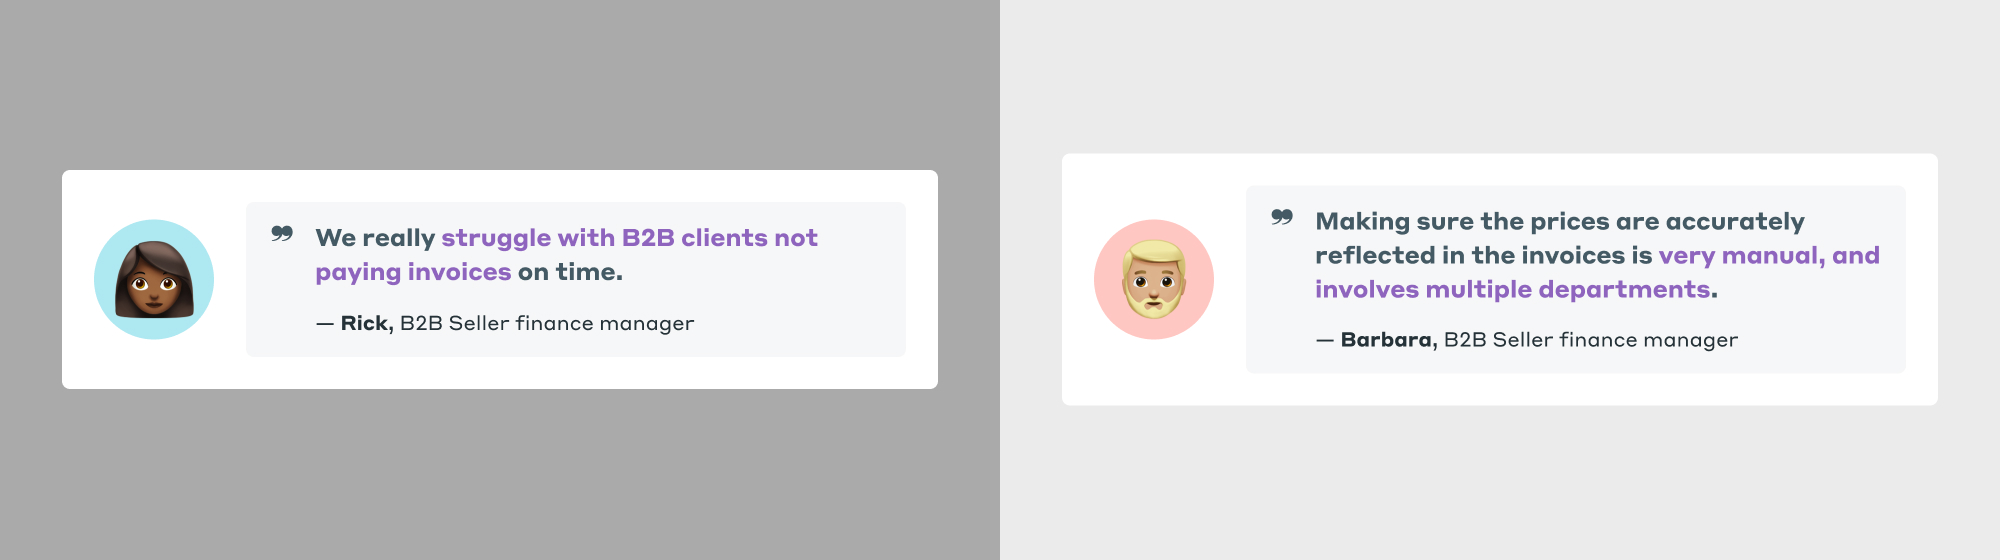
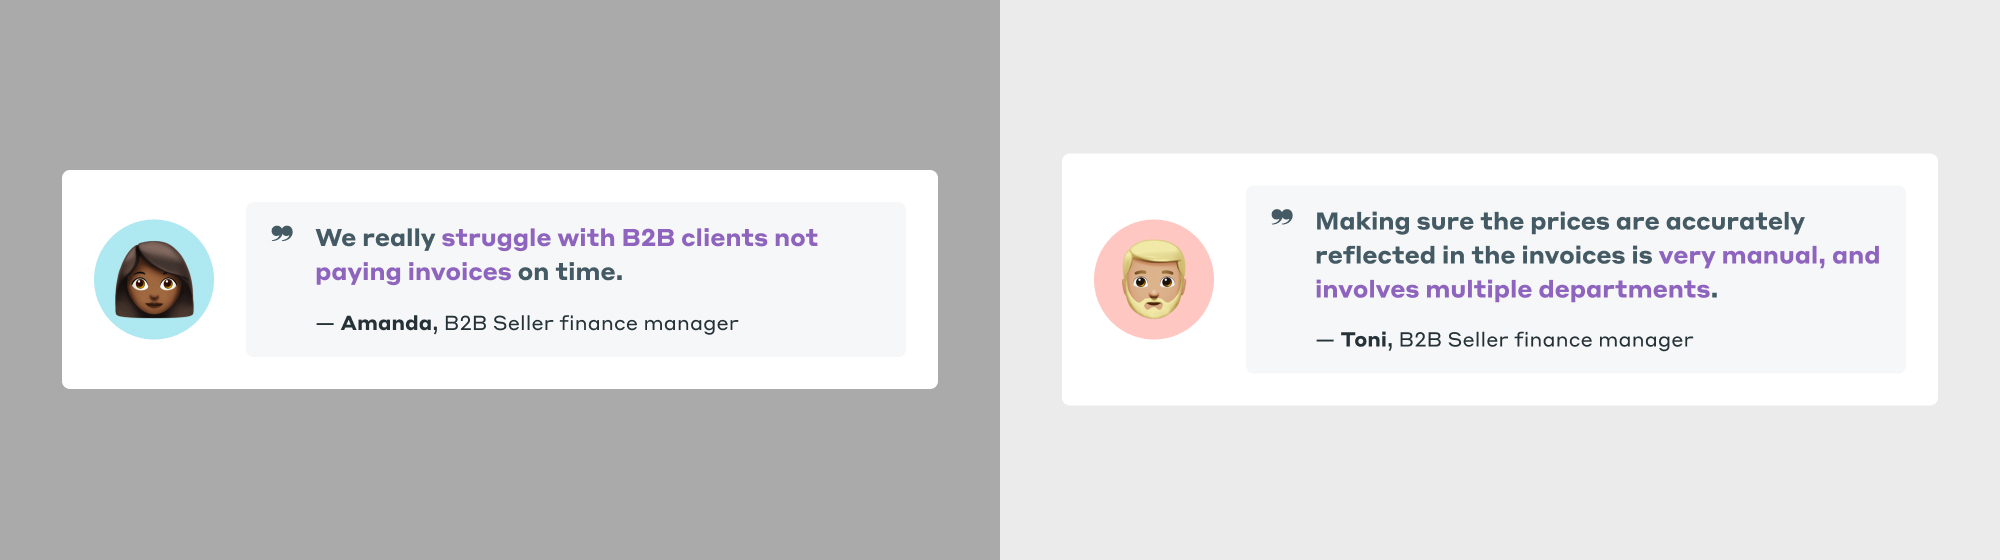
add

Changed region(s): [[0.155, 0.5464, 0.372, 0.6071], [0.651, 0.5768, 0.868, 0.6375]]

diff --git a/project-atolls-pmt.html b/project-atolls-pmt.html
@@ -176,7 +176,7 @@
             <!--middle-->
             <div class="fl w-100 w-75-m w-60-l phs pa2 mv3 mv5-l mv4-m">
                 <p class="dt dark-gray f4 fw6 pb2 mv2 lh-title">
-                    📖 Context - How placements work on iGraal
+                    📰 Context - How placements work on iGraal
                 </p>
                 <p class="dt dark-gray f5 f5-m f4 fw4 pb4 mv2 lh-copy">
                     iGraal's website surfaces promotional placements - banners, spots, and slots - for retailer partners, live across 5 country domains. Behind the scenes, an internal ops team commissions and schedules these placements through the PMT (Promotional Management Tool): choosing which retailer appears where, on which domain, and for how long, sometimes for a single day, sometimes for a multi-day campaign.
